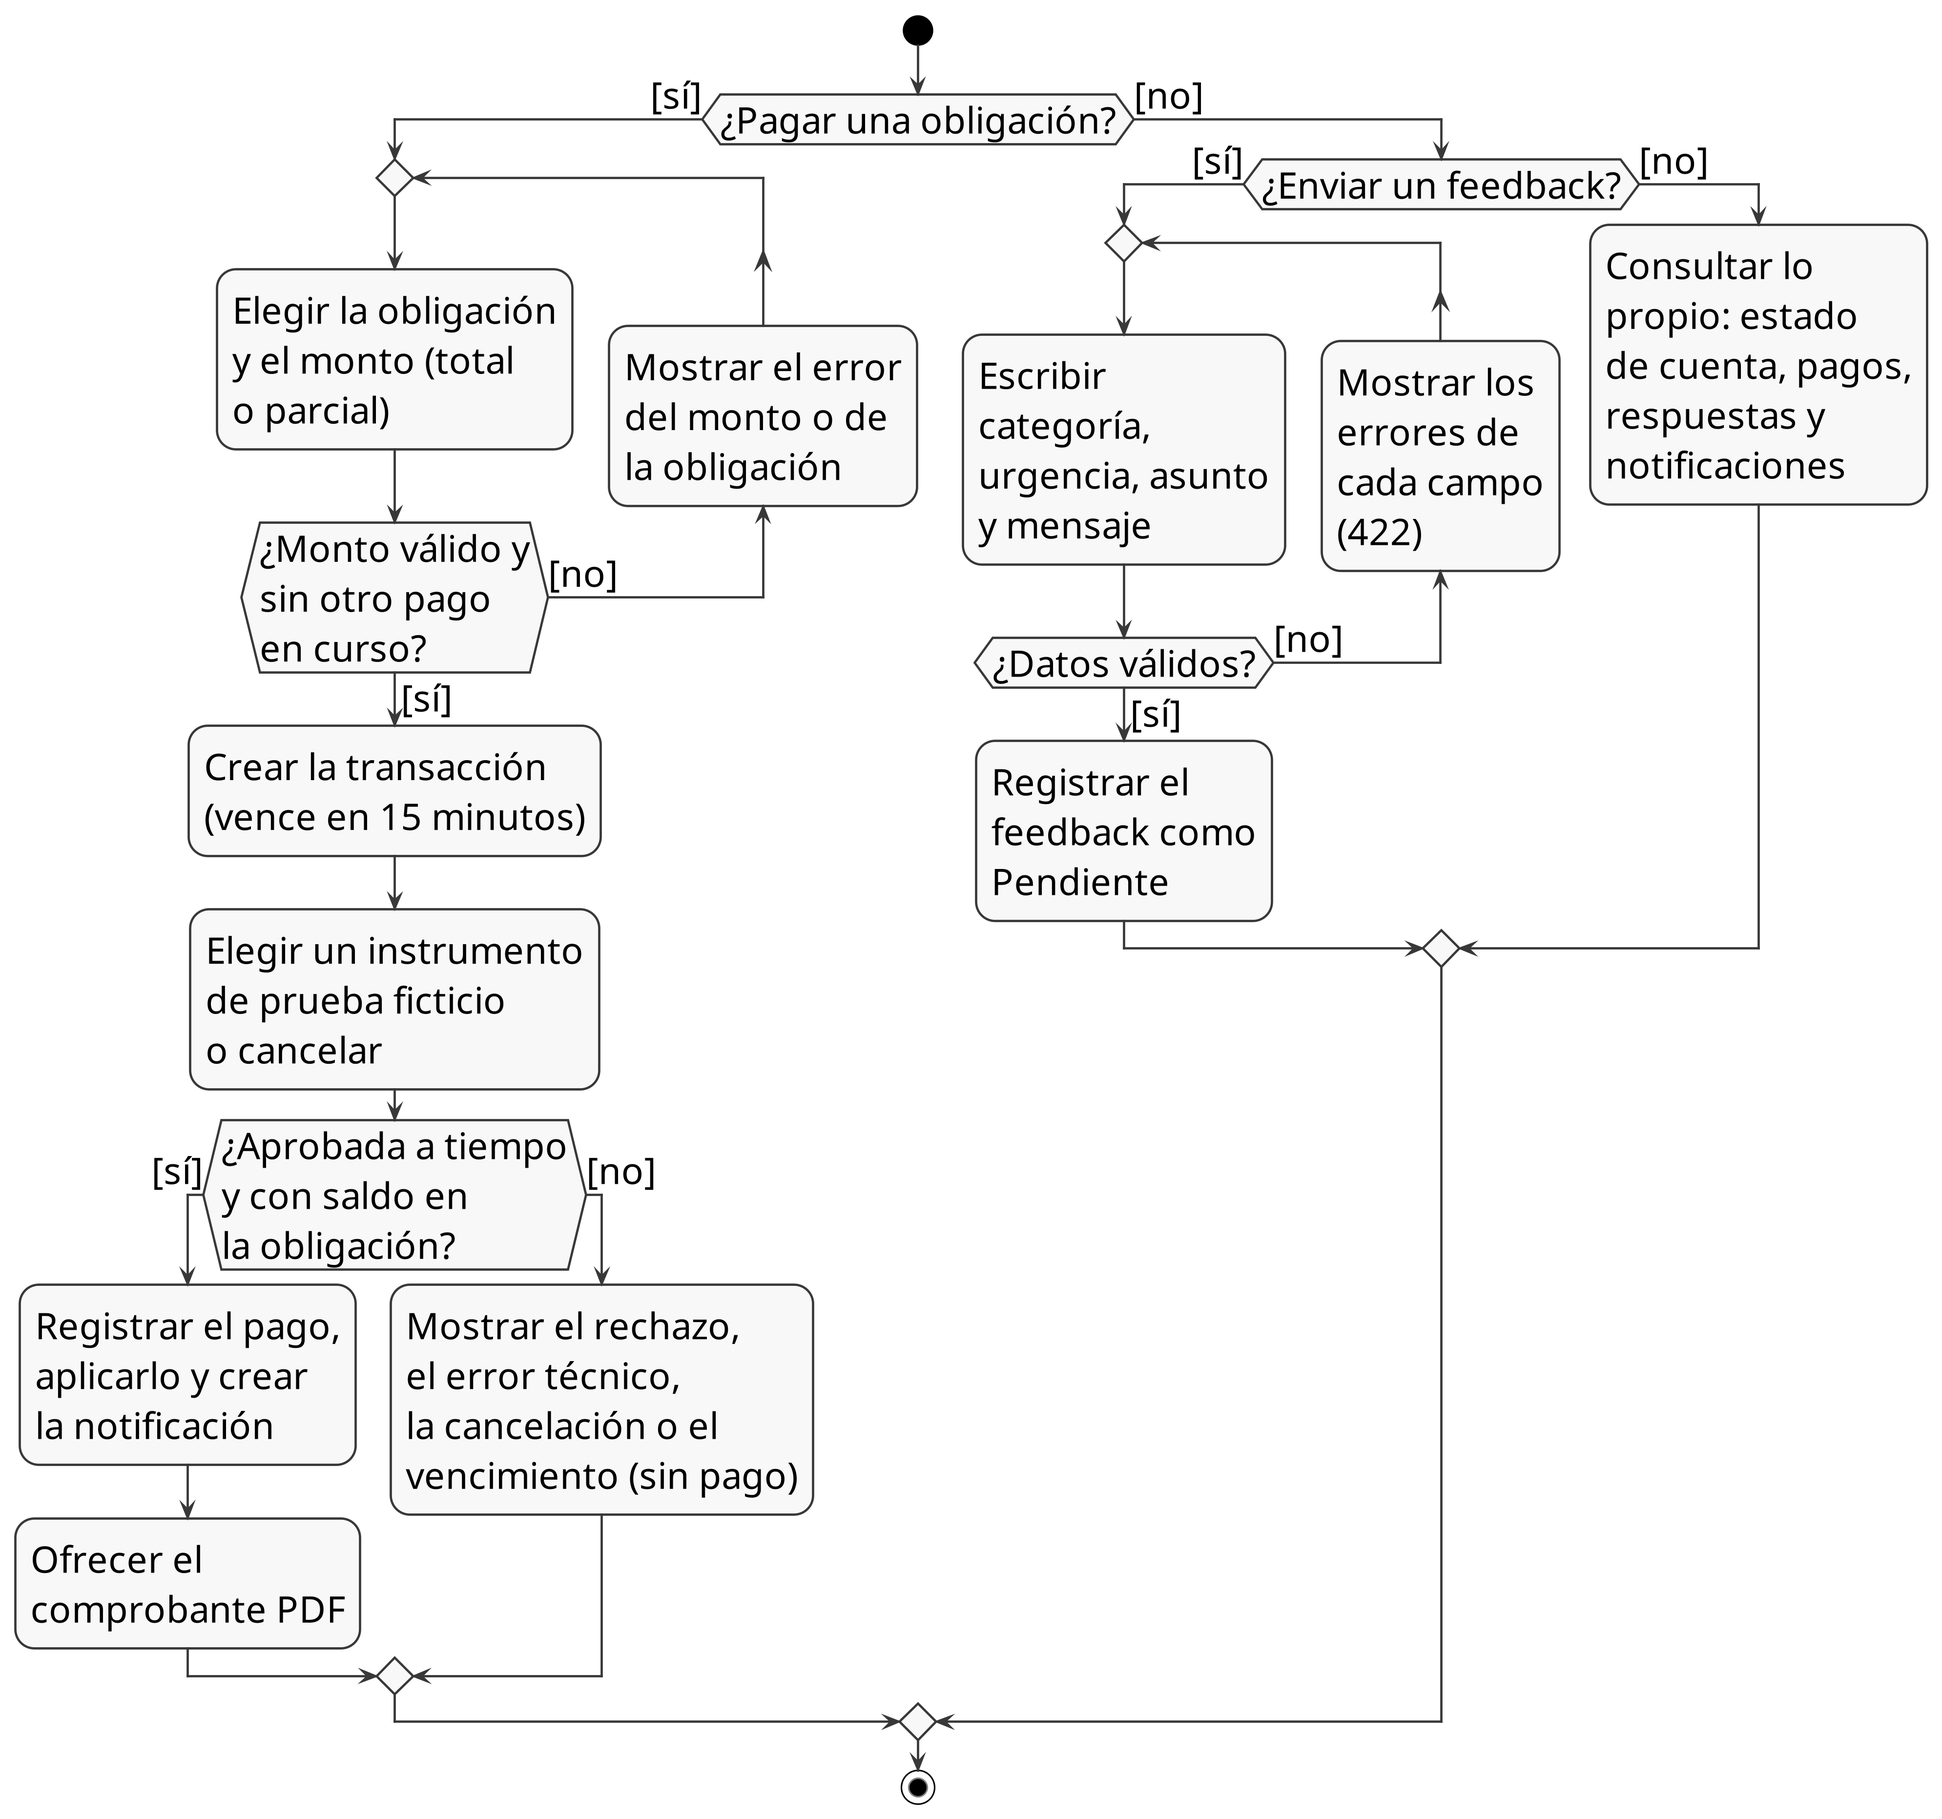
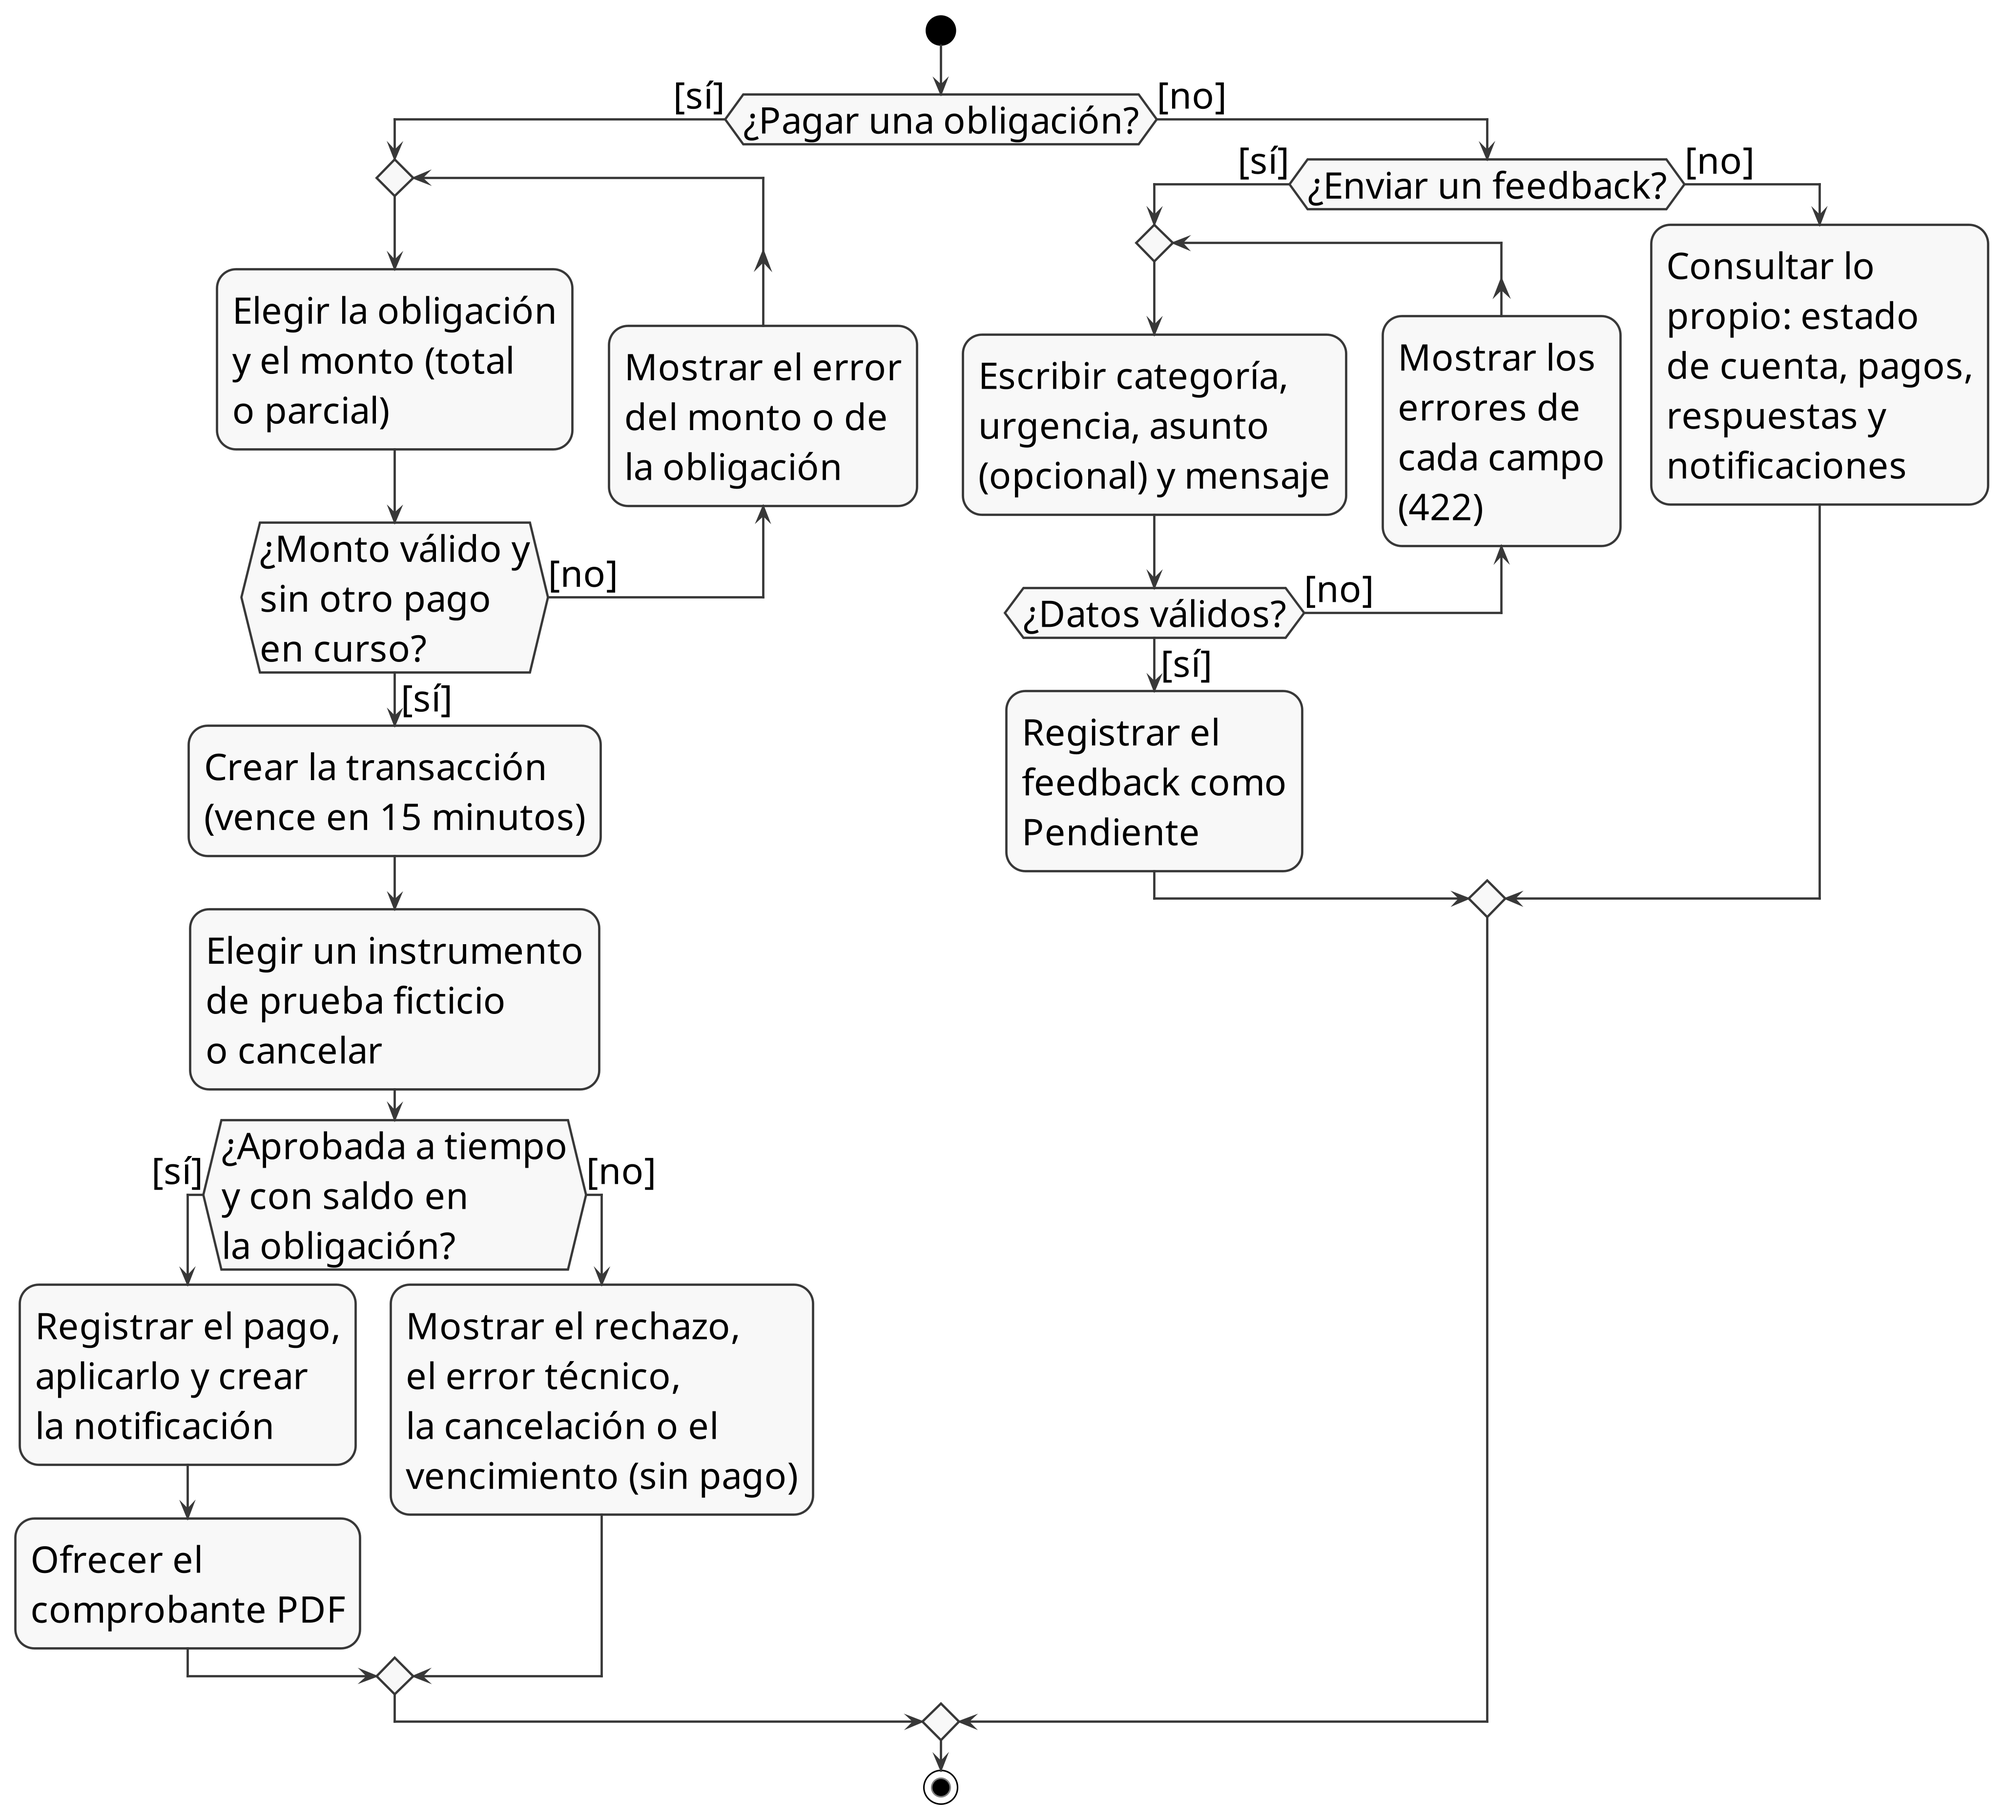
docs(actividades): alinear diagramas con el control de acceso y el formulario de feedback

diff --git a/docs/entrega-objetivos/README.md b/docs/entrega-objetivos/README.md
@@ -71,10 +71,10 @@ python3 -I scripts/verificar_diagramas.py */*.svg                  # letra, cruc
 | `cu-03-pagos-estado-financiero` | 4 | 1450 × 2006 | 8,3 pt | **12,0 pt** | 0 | 0 | 0 |
 | `cu-04-feedback` | 5 | 1115 × 729 | **22,8 pt** | 17,1 pt | 0 | 0 | 0 |
 | `cu-05-notificaciones` | 6 | 2025 × 803 | **13,0 pt** | 9,4 pt | 0 | 0 | 0 |
-| `actividades-administrador-parte1` | 7 (1/2) | 2165 × 4472 | 5,7 pt | **8,3 pt** | 0 | 0 | 0 |
-| `actividades-administrador-parte2` | 7 (2/2) | 3465 × 4856 | 5,8 pt | **8,4 pt** | 0 | 0 | 0 |
-| `actividades-residente-parte1` | 8 (1/2) | 3234 × 5291 | 5,8 pt | **8,4 pt** | 0 | 0 | 0 |
-| `actividades-residente-parte2` | 8 (2/2) | 3978 × 3726 | 8,3 pt | **8,9 pt** | 0 | 0 | 0 |
+| `actividades-administrador-parte1` | 7 (1/2) | 2925 × 3894 | 6,6 pt | **9,5 pt** | 0 | 0 | 0 |
+| `actividades-administrador-parte2` | 7 (2/2) | 3981 × 4856 | 5,8 pt | **8,1 pt** | 0 | 0 | 0 |
+| `actividades-residente-parte1` | 8 (1/2) | 3343 × 5264 | 5,9 pt | **8,4 pt** | 0 | 0 | 0 |
+| `actividades-residente-parte2` | 8 (2/2) | 4103 × 3726 | 8,3 pt | **8,6 pt** | 0 | 0 | 0 |
 | `componentes-resumen` | 9 | 1943 × 3418 | 6,0 pt | **8,7 pt** | 0 | 0 | 0 |
 | `despliegue` | 10 | 2284 × 1859 | **9,7 pt** | 9,0 pt | 0 | 0 | 0 |
 | `modelo-datos-usuarios-seguridad` | 11 | 3973 × 2063 | **8,2 pt** | 5,9 pt | 0 | 0 | 0 |
